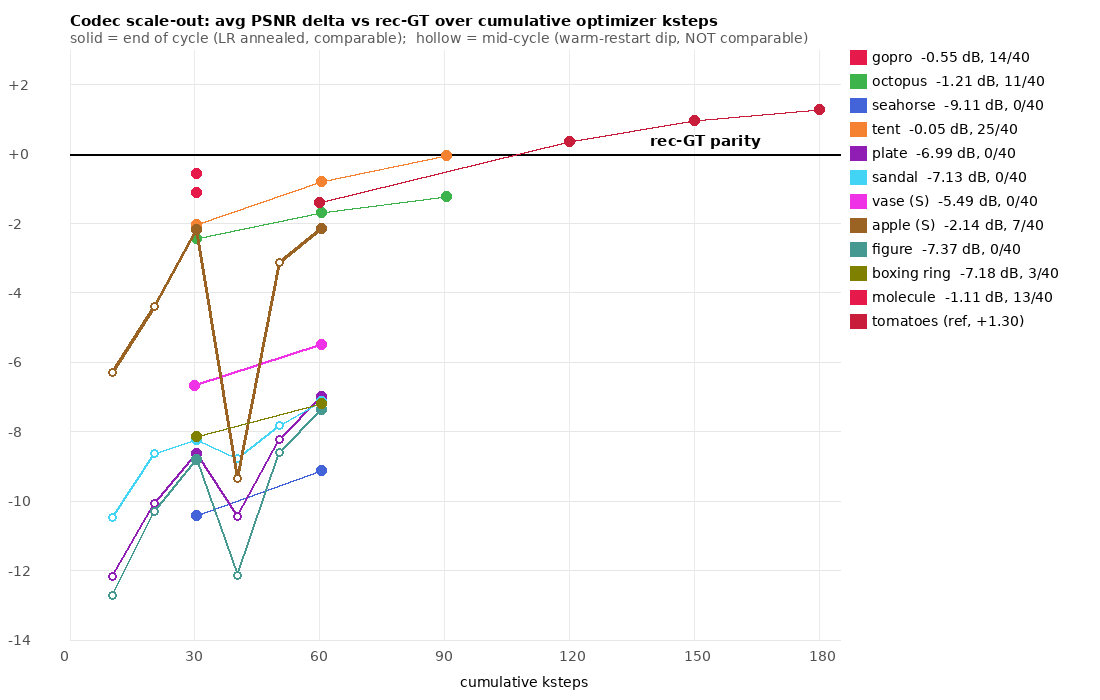
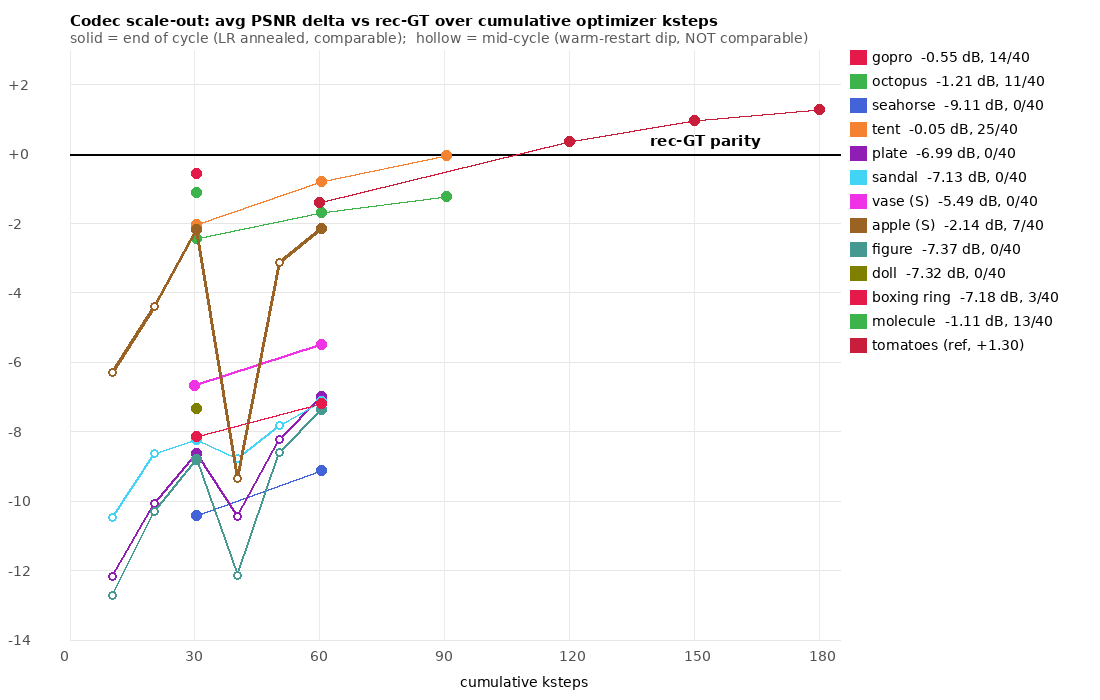
docs(PROGRESS): doll c1 -7.32

diff --git a/PROGRESS.md b/PROGRESS.md
@@ -2594,3 +2594,7 @@ molecule/scene_1423 c1 (31383249): rand −0.69 (8/24) / close **+0.75 (5/8)** /
 (highest absolute yet) vs bar 44.6/40.6/48.0. Revises the band: not "wild scans only" but
 "moderate bar" — some studio objects (molecule, tent) sit there; seahorse/plate/sandal do not.
 c2 31383251 running (seeded from c1 ep27). Far-range remains the universal deficit.
+
+## 2026-08-27: doll (scene_1223) c1 −7.32 — bar-limited like plate/sandal
+doll c1 (31383253): rand −7.64 / close −4.07 / far −9.60 = **−7.32 avg, 0/40**; bar 48.5/44.4/50.9.
+Joins the high-bar studio group. c2 31383255 running.
